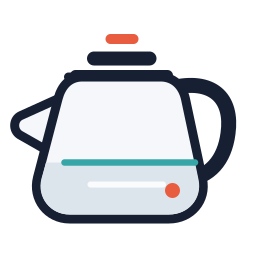
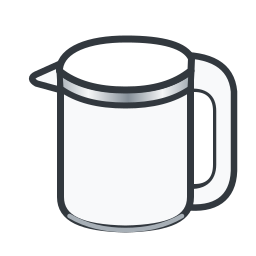
fix: recover restored kettle subscriptions

diff --git a/custom_components/yunmi_kettle/coordinator.py b/custom_components/yunmi_kettle/coordinator.py
@@ -29,6 +29,7 @@ from .const import (
     CONF_POLL_INTERVAL,
     CONF_TOKEN,
     DEFAULT_POLL_INTERVAL,
+    DISCONNECT_GRACE_PERIOD,
     DOMAIN,
     DURATION_UNIT_MIN,
     GATT_FAILURES_BEFORE_QUIET,
@@ -78,6 +79,8 @@ class YunmiKettleCoordinator(DataUpdateCoordinator[dict[str, int]]):
         self._unregister_bluetooth = None
         self._unregister_unavailable = None
         self._reconnect_task: asyncio.Task[None] | None = None
+        self._disconnect_grace_task: asyncio.Task[None] | None = None
+        self._disconnect_grace_deadline = 0.0
         self._dropping = False
         self._consecutive_failures = 0
         self._gatt_failure_streak = 0
@@ -207,6 +210,20 @@ class YunmiKettleCoordinator(DataUpdateCoordinator[dict[str, int]]):
         """Return seconds until an advertisement may trigger another attempt."""
         return max(0.0, self._retry_not_before - monotonic())
 
+    @property
+    def disconnect_grace_remaining(self) -> float:
+        """Return seconds before a transient disconnect marks data unavailable."""
+        return max(0.0, self._disconnect_grace_deadline - monotonic())
+
+    @property
+    def disconnect_grace_active(self) -> bool:
+        """Return whether confirmed data is being held through a brief dropout."""
+        return (
+            not self.connected
+            and self.data is not None
+            and self.disconnect_grace_remaining > 0
+        )
+
     def async_start(self) -> None:
         """Start watching advertisements so a powered-on kettle reconnects now."""
         if self._unregister_bluetooth is not None:
@@ -286,11 +303,49 @@ class YunmiKettleCoordinator(DataUpdateCoordinator[dict[str, int]]):
         error = KettleError("BLE connection closed")
         self._last_error = error
         self._consecutive_failures += 1
+        self._gatt_failure_streak = 0
+        delay = min(
+            TRANSIENT_RETRY_INTERVAL * 2 ** (self._consecutive_failures - 1),
+            MAX_RECONNECT_BACKOFF,
+        )
+        self._retry_not_before = monotonic() + delay
         self.update_interval = None
         self._clear_advertisement_history()
         # Do not start a long connection attempt against a kettle whose smart
         # plug was just switched off. The next real advertisement reconnects it.
-        self.async_set_update_error(error)
+        if self.data is None:
+            self.async_set_update_error(error)
+            return
+        self._start_disconnect_grace(error)
+
+    def _start_disconnect_grace(self, error: Exception) -> None:
+        """Debounce a brief weak-signal disconnect without hiding a real outage."""
+        self._cancel_disconnect_grace()
+        self._disconnect_grace_deadline = monotonic() + DISCONNECT_GRACE_PERIOD
+        self._disconnect_grace_task = self.hass.async_create_task(
+            self._async_expire_disconnect_grace(error),
+            f"{DOMAIN} disconnect grace {self.address}",
+        )
+
+    def _cancel_disconnect_grace(self) -> None:
+        """Cancel a pending availability downgrade after recovery or shutdown."""
+        task = self._disconnect_grace_task
+        self._disconnect_grace_task = None
+        self._disconnect_grace_deadline = 0.0
+        if task is not None and task is not asyncio.current_task() and not task.done():
+            task.cancel()
+
+    async def _async_expire_disconnect_grace(self, error: Exception) -> None:
+        """Mark stale data unavailable if the session does not recover in time."""
+        task = asyncio.current_task()
+        try:
+            await asyncio.sleep(DISCONNECT_GRACE_PERIOD)
+            if not self.connected:
+                self.async_set_update_error(self._last_error or error)
+        finally:
+            if self._disconnect_grace_task is task:
+                self._disconnect_grace_task = None
+                self._disconnect_grace_deadline = 0.0
 
     async def _ensure_session(self) -> YunmiKettle:
         if self.connected:
@@ -379,6 +434,7 @@ class YunmiKettleCoordinator(DataUpdateCoordinator[dict[str, int]]):
         self.async_set_updated_data(self._merge_properties(properties))
 
     def _mark_success(self) -> None:
+        self._cancel_disconnect_grace()
         self._last_success = datetime.now(UTC)
         self._last_error = None
         self._consecutive_failures = 0
@@ -426,6 +482,15 @@ class YunmiKettleCoordinator(DataUpdateCoordinator[dict[str, int]]):
                 err,
             )
             raise UpdateFailed(str(err)) from err
+        if self.data is not None and self.disconnect_grace_active:
+            self.update_interval = None
+            _LOGGER.warning(
+                "Temporary kettle reconnect failure; keeping the last confirmed data "
+                "for %.0f more seconds and retrying from advertisements: %s",
+                self.disconnect_grace_remaining,
+                err,
+            )
+            return dict(self.data)
         if self.data is not None and self._consecutive_failures == 1:
             self.update_interval = timedelta(seconds=delay)
             _LOGGER.warning(
@@ -472,6 +537,7 @@ class YunmiKettleCoordinator(DataUpdateCoordinator[dict[str, int]]):
 
     def _record_auth_failure(self, err: KettleAuthError) -> None:
         """Stop automatic retries until Home Assistant completes reauthentication."""
+        self._cancel_disconnect_grace()
         self._last_error = err
         self._consecutive_failures += 1
         self._gatt_failure_streak = 0
@@ -509,6 +575,10 @@ class YunmiKettleCoordinator(DataUpdateCoordinator[dict[str, int]]):
         if self._reconnect_task is not None and not self._reconnect_task.done():
             self._reconnect_task.cancel()
             await asyncio.gather(self._reconnect_task, return_exceptions=True)
+        grace_task = self._disconnect_grace_task
+        self._cancel_disconnect_grace()
+        if grace_task is not None:
+            await asyncio.gather(grace_task, return_exceptions=True)
         await super().async_shutdown()
         await self._drop()
 

diff --git a/tests/test_protocol.py b/tests/test_protocol.py
@@ -293,6 +293,32 @@ class ProtocolNotificationTests(unittest.IsolatedAsyncioTestCase):
 
         self.assertEqual(await waiter, {pair: 21})
 
+    async def test_subscribe_read_falls_back_to_direct_read_after_timeout(self) -> None:
+        pair = (2, 1)
+        subscribed: list[list[tuple[int, int]]] = []
+        direct_reads: list[tuple[list[tuple[int, int]], float]] = []
+
+        async def _send_subscribe(pairs: list[tuple[int, int]]) -> None:
+            subscribed.append(pairs)
+
+        async def _wait_for_properties(*_args, **_kwargs):
+            raise protocol.KettlePropertyTimeout(
+                "timeout waiting for properties: [(2, 1)]"
+            )
+
+        async def _read_many(pairs: list[tuple[int, int]], timeout: float = 4.0):
+            direct_reads.append((pairs, timeout))
+            return {pair: 0}
+
+        self.kettle.SUBSCRIBE_PAIRS = [pair]
+        self.kettle._send_subscribe = _send_subscribe
+        self.kettle._wait_for_properties = _wait_for_properties
+        self.kettle.read_many = _read_many
+
+        self.assertEqual(await self.kettle.subscribe_and_read(), {pair: 0})
+        self.assertEqual(subscribed, [[pair]])
+        self.assertEqual(direct_reads, [([pair], 4.0)])
+
     async def test_write_confirmation_ignores_an_old_value(self) -> None:
         pair = (5, 5)
         waiter = asyncio.create_task(self.kettle._wait_for_confirmed_value(pair, 90, 0, timeout=1))
@@ -402,7 +428,7 @@ class CoordinatorTests(unittest.IsolatedAsyncioTestCase):
         self.assertIsNone(coordinator.last_watchdog)
         self.assertEqual(coordinator.watchdog_count, 0)
 
-    async def test_disconnect_marks_unavailable_and_waits_for_advertisement(self) -> None:
+    async def test_disconnect_keeps_confirmed_data_available_during_grace(self) -> None:
         coordinator = self._coordinator()
         client = types.SimpleNamespace(is_connected=False)
 
@@ -415,6 +441,7 @@ class CoordinatorTests(unittest.IsolatedAsyncioTestCase):
         device = _Device()
         coordinator._client = client
         coordinator._dev = device
+        coordinator.data = {"status": 0, "current_temp": 25}
 
         await coordinator._async_handle_disconnected(client)
 
@@ -423,12 +450,72 @@ class CoordinatorTests(unittest.IsolatedAsyncioTestCase):
         self.assertIsNone(coordinator.update_interval)
         self.assertEqual(coordinator.disconnect_count, 1)
         self.assertIsNotNone(coordinator.last_disconnect)
-        self.assertFalse(coordinator.last_update_success)
-        self.assertIsInstance(coordinator.last_exception, protocol.KettleError)
+        self.assertTrue(coordinator.last_update_success)
+        self.assertTrue(coordinator.disconnect_grace_active)
+        self.assertGreater(coordinator.reconnect_backoff_remaining, 9)
         self.assertIn(
             coordinator.address,
             sys.modules["homeassistant.components.bluetooth"].cleared_addresses,
         )
+
+        grace_task = coordinator._disconnect_grace_task
+        coordinator._mark_success()
+        await asyncio.gather(grace_task, return_exceptions=True)
+        self.assertFalse(coordinator.disconnect_grace_active)
+
+    async def test_disconnect_grace_expires_to_unavailable(self) -> None:
+        coordinator = self._coordinator()
+        client = types.SimpleNamespace(is_connected=False)
+
+        class _Device:
+            async def async_stop(self) -> None:
+                return None
+
+        coordinator._client = client
+        coordinator._dev = _Device()
+        coordinator.data = {"status": 0}
+        original_grace = coordinator_module.DISCONNECT_GRACE_PERIOD
+        coordinator_module.DISCONNECT_GRACE_PERIOD = 0.01
+        try:
+            await coordinator._async_handle_disconnected(client)
+            await asyncio.sleep(0.03)
+        finally:
+            coordinator_module.DISCONNECT_GRACE_PERIOD = original_grace
+
+        self.assertFalse(coordinator.disconnect_grace_active)
+        self.assertFalse(coordinator.last_update_success)
+        self.assertIsInstance(coordinator.last_exception, protocol.KettleError)
+
+    async def test_disconnect_without_snapshot_is_unavailable_immediately(self) -> None:
+        coordinator = self._coordinator()
+        client = types.SimpleNamespace(is_connected=False)
+
+        class _Device:
+            async def async_stop(self) -> None:
+                return None
+
+        coordinator._client = client
+        coordinator._dev = _Device()
+
+        await coordinator._async_handle_disconnected(client)
+
+        self.assertFalse(coordinator.last_update_success)
+        self.assertFalse(coordinator.disconnect_grace_active)
+        self.assertIsInstance(coordinator.last_exception, protocol.KettleError)
+
+    async def test_reconnect_failure_keeps_data_during_disconnect_grace(self) -> None:
+        coordinator = self._coordinator()
+        coordinator.data = {"status": 0, "current_temp": 25}
+        coordinator._disconnect_grace_deadline = coordinator_module.monotonic() + 30
+        coordinator._consecutive_failures = 1
+
+        data = coordinator._handle_update_failure(protocol.KettleError("weak signal"))
+
+        self.assertEqual(data, coordinator.data)
+        self.assertEqual(coordinator.consecutive_failures, 2)
+        self.assertTrue(coordinator.disconnect_grace_active)
+        self.assertTrue(coordinator.last_update_success)
+        self.assertIsNone(coordinator.update_interval)
 
     async def test_advertisement_during_backoff_schedules_delayed_refresh(self) -> None:
         coordinator = self._coordinator()

diff --git a/custom_components/yunmi_kettle/protocol.py b/custom_components/yunmi_kettle/protocol.py
@@ -54,6 +54,10 @@ class KettleAuthError(KettleError):
     """The configured BLE token did not authenticate the kettle."""
 
 
+class KettlePropertyTimeout(KettleError):
+    """The kettle did not publish a requested property before the deadline."""
+
+
 class KettleGattError(KettleError):
     """The connected device did not expose the required Yunmi GATT layout."""
 
@@ -516,12 +520,14 @@ class YunmiKettle:
             remaining = deadline - loop.time()
             if remaining <= 0:
                 missing = sorted(pairs - updated.keys())
-                raise KettleError(f"timeout waiting for properties: {missing}")
+                raise KettlePropertyTimeout(f"timeout waiting for properties: {missing}")
             try:
                 await asyncio.wait_for(self._property_event.wait(), timeout=remaining)
             except TimeoutError:
                 missing = sorted(pairs - updated.keys())
-                raise KettleError(f"timeout waiting for properties: {missing}") from None
+                raise KettlePropertyTimeout(
+                    f"timeout waiting for properties: {missing}"
+                ) from None
 
     async def _wait_for_confirmed_value(
         self,
@@ -554,7 +560,18 @@ class YunmiKettle:
             wanted = set(chunk)
             baseline = {pair: self._property_versions.get(pair, 0) for pair in wanted}
             await self._send_subscribe(chunk)
-            got = await self._wait_for_properties(wanted, baseline, timeout=collect)
+            try:
+                got = await self._wait_for_properties(wanted, baseline, timeout=collect)
+            except KettlePropertyTimeout:
+                # A reconnect can restore an existing device-side subscription
+                # without replaying its current value. Ask for that value once
+                # over the already-authenticated session instead of tearing the
+                # session down and entering a reconnect/beep loop.
+                _LOGGER.debug(
+                    "subscription returned no current value for %s; falling back to read",
+                    sorted(wanted),
+                )
+                got = await self.read_many(chunk, timeout=collect)
             result.update(got)
         _LOGGER.debug("subscribe read %s props: %s", len(result), result)
         return result

diff --git a/custom_components/yunmi_kettle/diagnostics.py b/custom_components/yunmi_kettle/diagnostics.py
@@ -73,6 +73,15 @@ async def async_get_config_entry_diagnostics(
             "gatt_failure_streak": coordinator.gatt_failure_streak,
             "gatt_quiet_mode": coordinator.gatt_quiet_mode,
             "reconnect_backoff_remaining": round(coordinator.reconnect_backoff_remaining, 1),
+            "disconnect_grace_active": coordinator.disconnect_grace_active,
+            "disconnect_grace_remaining": round(
+                coordinator.disconnect_grace_remaining, 1
+            ),
+            "data_age_seconds": (
+                round((datetime.now(UTC) - coordinator.last_success).total_seconds(), 1)
+                if coordinator.last_success
+                else None
+            ),
             "last_error_type": type(error).__name__ if error else None,
             "last_error_message": str(error) if isinstance(error, KettleError) else None,
             "data": dict(coordinator.data or {}),

diff --git a/tests/test_metadata.py b/tests/test_metadata.py
@@ -21,11 +21,11 @@ class MetadataTests(unittest.TestCase):
     def test_manifest_and_hacs_versions(self) -> None:
         manifest = json.loads((COMPONENT / "manifest.json").read_text(encoding="utf-8"))
         hacs = json.loads((ROOT / "hacs.json").read_text(encoding="utf-8"))
-        self.assertEqual(manifest["version"], "0.3.3")
+        self.assertEqual(manifest["version"], "0.3.4")
         self.assertEqual(manifest["iot_class"], "local_push")
         self.assertEqual(
             manifest["issue_tracker"],
-            "https://github.com/opravdin/hass-yunmi-kettle-ble/issues",
+            "https://github.com/kasiom/hass-yunmi-kettle-ble/issues",
         )
         self.assertEqual(hacs["homeassistant"], "2025.3.0")
 

diff --git a/custom_components/yunmi_kettle/const.py b/custom_components/yunmi_kettle/const.py
@@ -17,6 +17,10 @@ DEFAULT_NAME = "Mi Kettle"
 DEFAULT_POLL_INTERVAL = 300
 TRANSIENT_RETRY_INTERVAL = 10
 MAX_RECONNECT_BACKOFF = 300
+# Keep the last confirmed values through one short RF dropout. This is long
+# enough for one advertisement-driven reconnect, but short enough that a
+# mains-switched kettle still becomes unavailable promptly.
+DISCONNECT_GRACE_PERIOD = 30
 # A missing GATT table is different from an ordinary transient disconnect. Clear
 # the service cache once, then back off aggressively so a powered kettle is not
 # woken (and does not beep) every few minutes by an unusable connection path.

diff --git a/README.md b/README.md
@@ -38,7 +38,12 @@ unique IDs, so upgrading does not require recreating dashboards, history or auto
 - Version 0.3.3 validates the complete Yunmi GATT layout before login, clears an invalid
   service cache once, and applies a long exponential quiet cooldown when the same structural
   GATT failure repeats. This avoids waking a poorly covered kettle every five minutes while
-  retaining automatic recovery and an immediate retry after an integration reload.
+  preserving automatic recovery when a usable Bluetooth path returns.
+- Version 0.3.4 falls back to a direct property read when a restored subscription does not
+  replay its current value. This prevents a successful login from turning into a reconnect
+  loop. Short RF disconnects keep the last confirmed values for a 30-second recovery window;
+  a failed recovery or a powered-off kettle still becomes unavailable. This release also adds
+  custom Mi Smart Kettle Pro artwork.
 
 ---
 
@@ -103,8 +108,9 @@ UI is localised in **Czech**, **English** and **Russian**.
    the extractor (do this yourself — never paste your Xiaomi password anywhere else), find
    the kettle, and copy its **MAC** (`AA:BB:CC:DD:EE:FF`) and its **token / beaconkey**
    (24 hex characters). The kettle must already be bound to your Mi Home account once.
-3. **Install the component.** Home Assistant 2025.3 or newer is required. Add this
-   repository as a custom **Integration** repository in HACS, install *Yunmi Kettle*,
+3. **Install the component.** Home Assistant 2025.3 or newer is required. Add
+   `https://github.com/kasiom/hass-yunmi-kettle-ble` as a custom **Integration** repository
+   in HACS, install *Yunmi Kettle*,
    and restart Home Assistant. A manual copy of `custom_components/yunmi_kettle/` into
    `config/custom_components/` works as well.
 4. **Add the integration.** Settings → Devices & Services → **Add Integration** →

diff --git a/CHANGELOG.md b/CHANGELOG.md
@@ -1,5 +1,17 @@
 # Changelog
 
+## 0.3.4
+
+- Fall back to a direct property read when a restored device-side subscription does not
+  replay its current value. This keeps a successfully authenticated session alive instead
+  of entering a reconnect loop that can leave every entity unavailable and make the kettle
+  beep repeatedly.
+- Debounce unexpected RF disconnects for 30 seconds: retain the last confirmed values while
+  one advertisement-driven reconnect is attempted after backoff, then mark the device
+  unavailable if recovery does not succeed. A powered-off kettle is therefore not hidden.
+- Report disconnect-grace state and confirmed-data age in redacted diagnostics.
+- Replace the generic device artwork with a custom transparent Mi Smart Kettle Pro icon.
+
 ## 0.3.3
 
 - Validate all four required Yunmi GATT characteristics before login and report the exact
